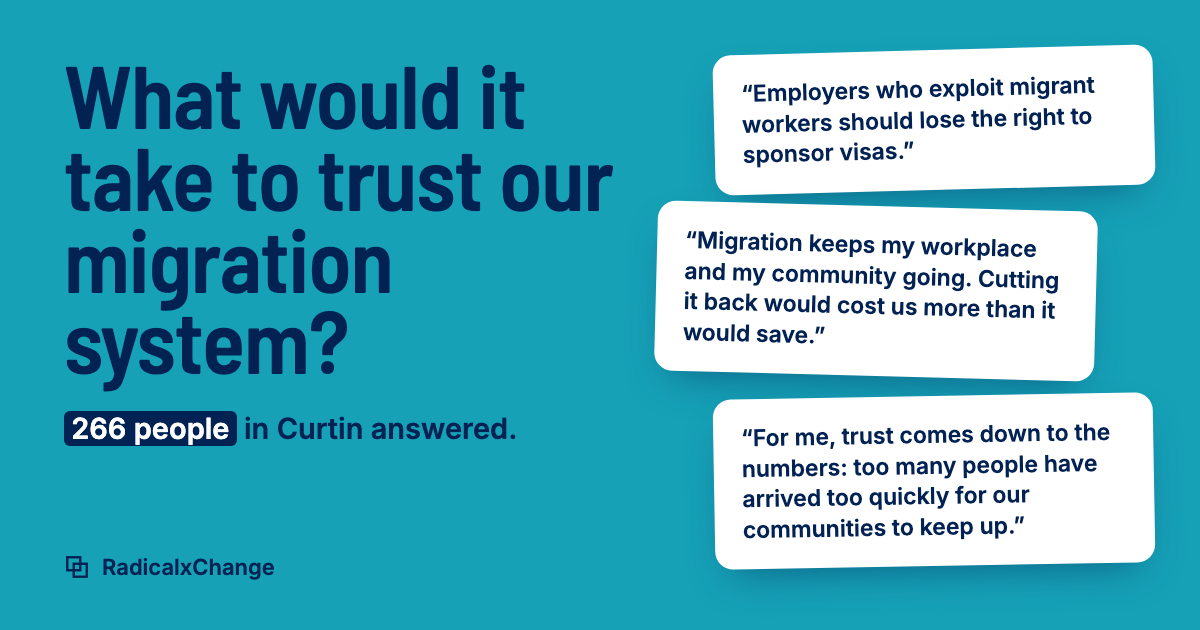
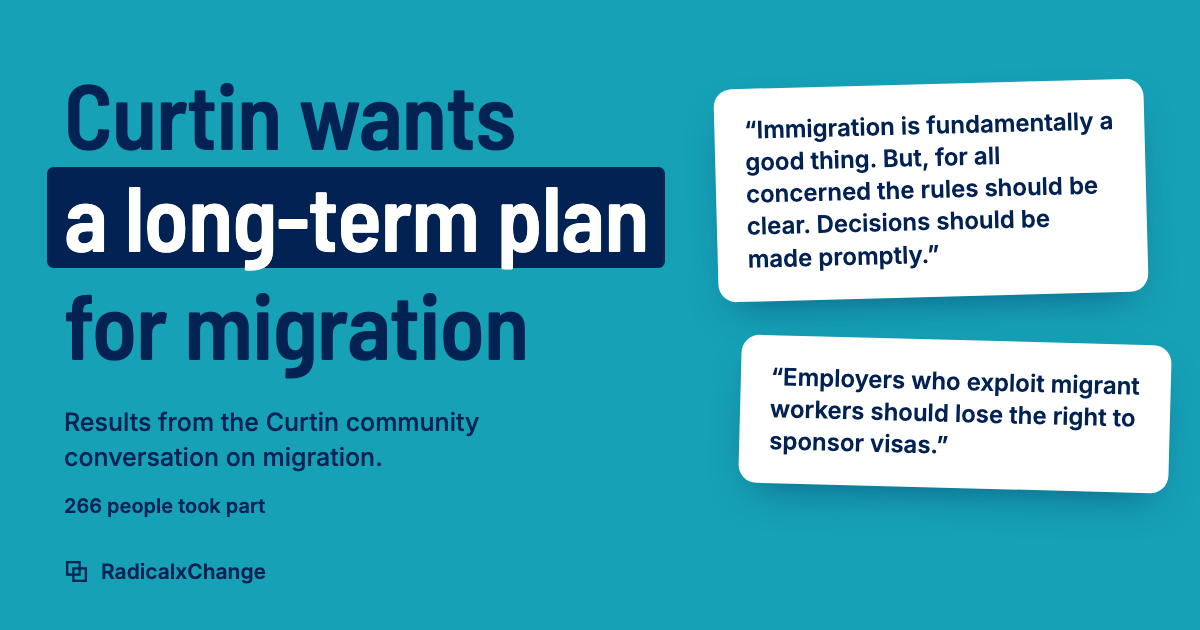
Curtin page: a hero like the Warringah page's
- The headline states the finding, in three set lines with the key phrase
  boxed: "Curtin wants a long-term plan for migration". The ten-year plan
  was the top priority (65 of 73 voters backed it), and both groups agree
  migration should be planned 10 to 15 years ahead (77% and 87%).
- The lede answers it in two plain sentences. The turnout moves to a small
  line under the buttons, and the second button goes to the priorities.
- The sticker gives a shared finding: "More than 3 in 4 in both groups want
  migration planned 10 to 15 years ahead".
- The headline is sized from its column (container units), replacing the
  older scaling rules built for the four-line question.
- The link-preview image and its alt text match the new hero; README updated.

diff --git a/src/site/curtin-migration/README.md b/src/site/curtin-migration/README.md
@@ -29,8 +29,8 @@ mode set below them). The RxC breadcrumb and footer bars keep RxC's own look.
 Its own link-preview image is `src/site/assets/curtin-migration-og.png`
 (1200×630, served at `/assets/curtin-migration-og.png` and referenced by
 the `og:image` and `twitter:image` tags). It was rendered from the page's
-own fonts and copy: the hero question, "266 people in Curtin answered",
-and three of the hero quotes. If the hero copy changes, regenerate it.
+own fonts and copy: the hero headline, "266 people took part" and the
+first two hero quotes. If the hero copy changes, regenerate it.
 
 Data sources: the Polis export of 30 October 2026
 (https://pol.is/report/r9fyrr8m6yfmfbwscfvp2) and the quadratic-vote results
@@ -100,29 +100,26 @@ HTML directly; every figure on the page has been checked against the exports.
 - Between 901px and about 1135px wide at the standard text size, the first
   card is narrower than it used to be, so its quote runs one or two lines
   longer.
+- The hero headline is three set lines, like the Warringah page's: "Curtin
+  wants", "a long-term plan" (boxed in navy) and "for migration". Each line is
+  `white-space:nowrap`, and the size comes from the hero text column
+  (`container-type:inline-size`): `min(14cqi,9vh,6.4rem)`. The widest line,
+  the boxed one, is about 6.7 times the size, so it always fits the column
+  and the lines never rewrap. Phones use `min(14cqi,3.6rem)`.
 - Short windows keep the headline, lede and buttons on the first screen. The
-  rules are inside `min-width:901px`, and a tall window is unchanged by them.
-  The pixel figures below are at the standard 16px text size.
-  - `.hero-grid{padding-top:clamp(28px,calc(100vh - 41.5rem),88px)}`. The
-    space above the hero shrinks from 88px to 28px as the window goes from
-    752px to 692px tall.
-  - The headline's size is the smallest of three:
-    - `7.6vw`, as it always was.
-    - Its four-line size, where four lines fit: `27.78vh - 7.45rem`. Four
-      lines need a window as tall as the top bar (58px), the 88px above the
-      hero, the headline (3.6 × its size), the lede, gaps and buttons
-      (259px), and 24px to spare. Where they do not fit, the size stops at
-      `7.7rem - 13px`: the largest at which "What would it take" stays on
-      one line, so the headline sets in three lines.
-    - On very short windows, `37.04vh - 8.73rem`: three lines (2.7 × the
-      size), 28px above the hero, and 32px to spare under the buttons.
+  rules are inside `min-width:901px`:
+  - `.hero-grid{padding-top:clamp(28px,calc(100vh - 41.5rem),88px)}` shrinks
+    the space above the hero.
+  - The headline's `9vh` limits it on short windows, and under 47.5em tall it
+    takes `min(14cqi,8vh,6.4rem)`.
   - Where the cards run well past the first screen, the headline starts
-    level with the first card instead of sitting halfway down the cards
-    (`align-items:start`). That is any window under 43.25em tall, and a
-    window under 62.5em wide that is under 53em tall.
+    level with the first card (`align-items:start`): any window under 43.25em
+    tall, and a window under 62.5em wide that is under 53em tall.
 
-  If the headline, the lede or the buttons change, measure again: these
-  numbers come from their heights.
+  Swept at 143 window sizes from 901×600 to 2560×1080 at 16px, the buttons
+  stay on the first screen at every one. The small turnout line under them
+  can fall just below it on the shortest windows. If the headline, lede or
+  buttons change, sweep again.
 - The closing "Thank you, Curtin" circle is sized in rem like its words
   (15rem, and 10.625rem at 900px and below), so the words stay inside it at
   any text size.
